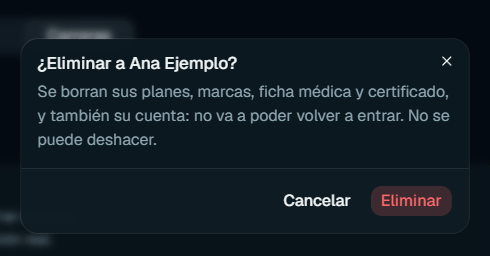
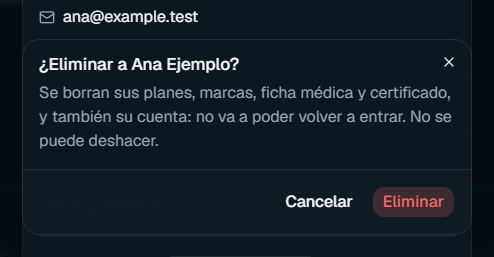
Evitar scroll lateral y mover eliminación a información del alumno

diff --git a/aktiv-client/src/components/planificacion-unificada.tsx b/aktiv-client/src/components/planificacion-unificada.tsx
@@ -88,7 +88,7 @@ export function PlanificacionUnificada({plan,editable,renderRutina}:Props) {
   {pendiente&&<p role="status" className="sr-only">Hay cambios pendientes de guardar</p>}
   <div className="flex items-center justify-between gap-3 md:hidden"><Button variant="outline" size="icon-sm" aria-label="Semana anterior de planificación" disabled={pendiente||semana===1} onClick={()=>navegar(()=>setSemana(s=>s-1))}><ArrowLeft /></Button><label className="flex items-center gap-2 text-sm">Semana<select className={selector} aria-label="Semana de planificación" value={semana} disabled={pendiente} onChange={e=>navegar(()=>setSemana(Number(e.target.value)))}>{Array.from({length:plan.semanas},(_,i)=><option key={i} value={i+1}>{i+1} de {plan.semanas}</option>)}</select></label><Button variant="outline" size="icon-sm" aria-label="Semana siguiente de planificación" disabled={pendiente||semana===plan.semanas} onClick={()=>navegar(()=>setSemana(s=>s+1))}><ArrowRight /></Button></div>
   {plan.semanas>4&&<div className="hidden items-center justify-between md:flex"><Button variant="outline" size="sm" disabled={pendiente||desde===1} onClick={()=>navegar(()=>setSemana(desde-4))}><ArrowLeft />Anteriores</Button><span className="text-sm">Semanas {desde}–{columnas.at(-1)} de {plan.semanas}</span><Button variant="outline" size="sm" disabled={pendiente||desde+4>plan.semanas} onClick={()=>navegar(()=>setSemana(desde+4))}>Siguientes<ArrowRight /></Button></div>}
-  <div className="max-w-full overflow-x-auto rounded-xl border text-center [&_textarea]:text-center [&_input]:text-center" style={{"--semanas":columnas.length} as CSSProperties}>
+  <div className="min-w-0 max-w-full overflow-x-clip rounded-xl border text-center md:overflow-x-auto [&_textarea]:text-center [&_input]:text-center" style={{"--semanas":columnas.length} as CSSProperties}>
    <div className="hidden grid-cols-[160px_repeat(var(--semanas),minmax(0,1fr))] bg-card md:grid"><div className="p-3 text-sm font-semibold text-primary">{plan.nombre}</div>{columnas.map(s=><div key={s} className={`border-l p-3 text-center ${actual===s?"bg-primary/15 text-primary":""}`}><p className="text-sm font-semibold">Semana {s}</p>{plan.inicio&&<p className="mt-1 text-xs text-muted-foreground">{formatFecha(new Date(Date.parse(plan.inicio+"T12:00:00Z")+(s-1)*7*86400000).toISOString().slice(0,10))} – {formatFecha(new Date(Date.parse(plan.inicio+"T12:00:00Z")+((s-1)*7+6)*86400000).toISOString().slice(0,10))}</p>}</div>)}</div>
    {DIAS_PLAN.map((dia,i)=><div key={dia} className="border-t bg-card/30 md:grid md:grid-cols-[160px_repeat(var(--semanas),minmax(0,1fr))]"><div aria-current={i===hoy?"date":undefined} className={`space-y-1.5 p-2.5 ${i===hoy?"bg-primary/10 text-primary":"bg-card"}`}><h4 className="flex items-center justify-center gap-2 text-sm font-medium"><span>{dia.slice(0,3)}</span>{actividadesDelDia(datos,i+1,semana).filter(a=>a.tipo!=="Descanso").map((a,n)=>{const Icono=icono(a.tipo);return <Icono key={n} aria-label={tipoVisual(a.tipo)} className="size-4 text-primary" />;})}</h4>{editable&&(vista.base?.[i+1]??actividadesDelDia({...plan,distribucion:{}},i+1,1)).some(a=>!["Running","Descanso"].includes(a.tipo))&&<Asignador soloRutina disabled={Boolean(pendientes["actividad:"+dia])} valor={vista.base?.[i+1]??actividadesDelDia({...plan,distribucion:{}},i+1,1)} tipos={tipos} sesiones={plan.sesiones} label={dia} onPendiente={onPendiente} onGuardar={guardarDias[i]} onCambiar={anticiparDias[i]} />}</div>{columnas.map(s=>{const a=actividadesGrilla(i+1,s);return <div key={s} className={(s===semana?"block":"hidden md:block")+" min-w-0 content-center space-y-2 p-2 text-center md:border-l"}>
     {a.length?a.map((v,n)=>{const sesion=plan.sesiones.find(r=>r.id===v.sesionId);return <div key={v.sesionId??v.tipo+n} className="min-w-0">

diff --git a/aktiv-client/src/app/(app)/alumnos/[id]/page.tsx b/aktiv-client/src/app/(app)/alumnos/[id]/page.tsx
@@ -112,7 +112,7 @@ export default function AlumnoDetallePage() {
             <div className="flex min-w-0 flex-wrap items-center gap-3"><div className="grid min-w-0 flex-1 basis-64 grid-cols-[minmax(0,1fr)_minmax(8rem,1.15fr)] items-center gap-2"><Label htmlFor="proximo-vencimiento" className="min-w-0 break-words text-xs font-normal text-muted-foreground">Próximo vencimiento</Label><FechaInput id="proximo-vencimiento" value={alumno.proximoPago??""} min={hoyISO()} onChange={e=>actualizarAlumno(alumno.id,{proximoPago:e.target.value||null})} className="h-8 min-w-0 text-xs" /></div><Button size="sm" className="h-8 shrink-0" onClick={registrarPago}><Banknote />Registrar pago</Button></div>
           </section>
         </header>
-        <Dialog open={informacion} onOpenChange={setInformacion}><DialogContent className="sm:max-w-md"><DialogHeader><DialogTitle>Información del alumno</DialogTitle><DialogDescription>{alumno.nombre}</DialogDescription></DialogHeader><dl className="space-y-4 text-sm"><div><dt className="text-xs text-muted-foreground">Email</dt><dd className="mt-1 flex items-start gap-2 break-all"><Mail className="mt-1 size-4 shrink-0 text-muted-foreground" />{alumno.email||"Sin email"}</dd></div><div><dt className="text-xs text-muted-foreground">Teléfono</dt><dd className="mt-1 flex items-center gap-2"><Phone className="size-4 text-muted-foreground" />{alumno.telefono||"Sin teléfono"}</dd></div><div><dt className="text-xs text-muted-foreground">Alumno desde</dt><dd className="mt-1">{formatFecha(alumno.altaEn,{conAnio:true})}</dd></div>{alumno.objetivo&&<div><dt className="text-xs text-muted-foreground">Objetivo</dt><dd className="mt-1 break-words">{alumno.objetivo}</dd></div>}</dl><div className="border-t pt-3"><AccesoAlumno alumno={alumno} />{!alumno.activo&&<p className="mt-3 text-sm text-destructive">El alumno está inactivo y no puede iniciar sesión. Reactivalo desde el switch de la cabecera para habilitar su acceso.</p>}</div></DialogContent></Dialog>
+        <Dialog open={informacion} onOpenChange={setInformacion}><DialogContent className="max-h-[calc(100dvh-2rem)] overflow-y-auto sm:max-w-md"><DialogHeader><DialogTitle>Información del alumno</DialogTitle><DialogDescription>{alumno.nombre}</DialogDescription></DialogHeader><dl className="space-y-4 text-sm"><div><dt className="text-xs text-muted-foreground">Email</dt><dd className="mt-1 flex items-start gap-2 break-all"><Mail className="mt-1 size-4 shrink-0 text-muted-foreground" />{alumno.email||"Sin email"}</dd></div><div><dt className="text-xs text-muted-foreground">Teléfono</dt><dd className="mt-1 flex items-center gap-2"><Phone className="size-4 text-muted-foreground" />{alumno.telefono||"Sin teléfono"}</dd></div><div><dt className="text-xs text-muted-foreground">Alumno desde</dt><dd className="mt-1">{formatFecha(alumno.altaEn,{conAnio:true})}</dd></div>{alumno.objetivo&&<div><dt className="text-xs text-muted-foreground">Objetivo</dt><dd className="mt-1 break-words">{alumno.objetivo}</dd></div>}</dl><div className="border-t pt-3"><AccesoAlumno alumno={alumno} />{!alumno.activo&&<p className="mt-3 text-sm text-destructive">El alumno está inactivo y no puede iniciar sesión. Reactivalo desde el switch de la cabecera para habilitar su acceso.</p>}</div><EliminarAlumno alumno={alumno} /></DialogContent></Dialog>
 
       </div>
 
@@ -154,7 +154,6 @@ export default function AlumnoDetallePage() {
         </TabsContent>
       </Tabs>
 
-      <EliminarAlumno alumno={alumno} />
     </div>
   );
 }

diff --git a/aktiv-client/src/lib/manual-detallado.ts b/aktiv-client/src/lib/manual-detallado.ts
@@ -68,7 +68,7 @@ export const guias: GuiaManual[] = [
   g("eliminar-alumno", "Alumnos", "Desactivar o eliminar un alumno", "Pausar conservando registros o quitar una ficha definitivamente.", "/alumnos", [
     p("Buscá y verificá la persona", "Entrá en Alumnos y abrí su ficha. Revisá nombre y email antes de actuar.", "alumno-resumen"),
     p("Si es una pausa, usá Estado", "Cambiá el switch junto al nivel de activo (verde) a inactivo (rojo). Se bloquea el acceso a la aplicación y se conservan la información, contraseña y planes. Reactivalo desde el mismo lugar para devolverle el acceso.", "alumno-resumen"),
-    p("Si es definitivo, bajá al final de la ficha", "Pulsá Eliminar alumno. Se abre una confirmación con el nombre de la persona. Leela antes de continuar; no es el tacho de un ejercicio o un plan.", "alumno-eliminar"),
+    p("Si es definitivo, abrí Información del alumno", "Pulsá la i junto al nombre y luego Eliminar alumno dentro de ese modal. Se abre una confirmación con el nombre de la persona. Leela antes de continuar; no es el tacho de un ejercicio o un plan.", "alumno-eliminar"),
     p("Confirmá o cancelá", "Cancelar vuelve sin borrar. Eliminar quita la ficha y los datos asociados indicados por la app, incluida la cuenta vinculada cuando corresponda. Esperá el resultado y revisá cualquier error antes de reintentar.", "alumno-eliminar"),
   ], "No se puede deshacer la eliminación desde la app. Para retirar una rutina de la vista del alumno, usá Desactivar plan en lugar de eliminar a la persona."),
 

diff --git a/aktiv-client/src/app/globals.css b/aktiv-client/src/app/globals.css
@@ -146,6 +146,9 @@
   html {
     @apply font-sans;
     scroll-behavior: smooth;
+    /* La página se desplaza verticalmente; las tablas de escritorio conservan su scroll local. */
+    overflow-x: clip;
+    overscroll-behavior-x: none;
   }
   body {
     @apply bg-background text-foreground;
